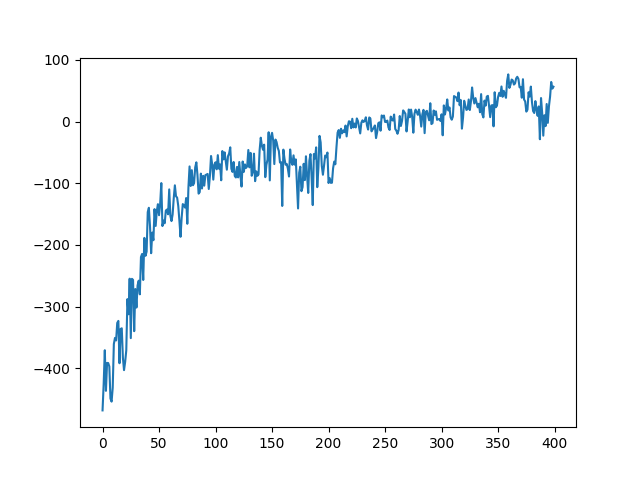
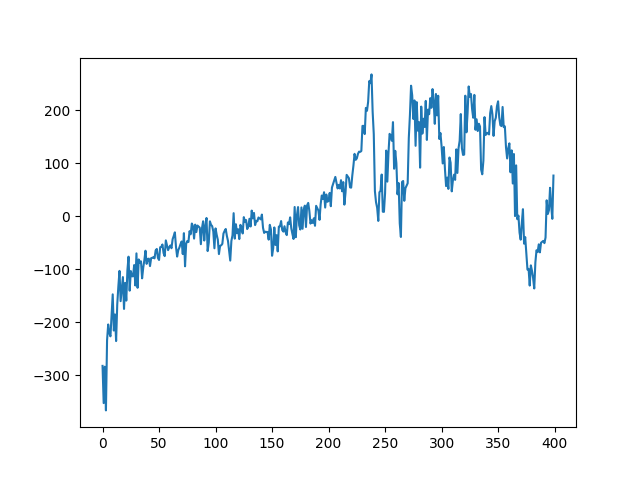
my SPGD seems to work now

diff --git a/PGO/algorithms/my_SPGD_reinforce.py b/PGO/algorithms/my_SPGD_reinforce.py
@@ -36,7 +36,9 @@ class Reinforce():
 				self.reward_buffer.append([])
 
 				state = self.env.reset()[0]
+				state[5] *= 2.5
 				state = torch.tensor(state)
+
 				
 				truncated = False
 				terminated = False
@@ -58,6 +60,8 @@ class Reinforce():
 					self.state_buffer[traj].append(state)
 					self.action_buffer[traj].append(action)
 					self.reward_buffer[traj].append(reward)
+
+					new_state[5] *= 2.5
 
 					state = torch.tensor(new_state)
 				
@@ -121,6 +125,7 @@ class Reinforce():
 			truncated = False
 			terminated = False
 			state = env.reset()[0]
+			state[5] *= 2.5
 			state = torch.Tensor(state)
 			while not (truncated or terminated):
 				means, stds = self.policy_network(state.unsqueeze(0))
@@ -133,6 +138,8 @@ class Reinforce():
 				action = distr.sample()	# returns a tensor
 
 				new_state, reward, terminated, truncated, _ = env.step(action.numpy())	# tensor => numpy array
+
+				new_state[5] *= 2.5
 
 				state = torch.tensor(new_state)
 						

diff --git a/PGO/algorithms/networks/lunar_network.py b/PGO/algorithms/networks/lunar_network.py
@@ -12,9 +12,6 @@ class PolicyNetwork(torch.nn.Module):
         self.scale_factor = torch.tensor([1.5, 2], requires_grad=False)
         self.bias_factor = torch.tensor([-0.5, -1], requires_grad=False)
 
-        self.my_scale_factor = torch.tensor([1, 2], requires_grad=False)
-        self.my_bias_factor = torch.tensor([0, -1], requires_grad=False)
-
     def forward(self, x):
         x = F.relu(self.layer1(x))      # => [0,x]
         x = F.relu(self.layer2(x))      # => [0,x]
@@ -22,9 +19,8 @@ class PolicyNetwork(torch.nn.Module):
         
         # [main_engine_mean, lateral_engine_mean, main_engine_std, lateral_engine_std]
         #   [-0.5, 1]           [-1, 1]
-        #   [0.5, 1]
 
-        return x[:, :self.n_actions] * self.my_scale_factor + self.my_bias_factor, x[:, self.n_actions:] + 0.01
+        return x[:, :self.n_actions] * self.scale_factor + self.bias_factor, x[:, self.n_actions:] + 0.01
     
     
 

diff --git a/PGO/algorithms/FIASCHI_reinforce_SPGD.py b/PGO/algorithms/FIASCHI_reinforce_SPGD.py
@@ -29,7 +29,9 @@ class Policy_Network(nn.Module):
 	def forward(self, x):
 		x = F.relu(self.layer1(x))
 		x = F.relu(self.layer2(x))
-		x = F.sigmoid(self.layer3(x))
+		x = F.sigmoid(self.layer3(x))	# [0,1] => [0, 1.5] => [-0.5, 1]
+
+
 		return x[:, :self.out_size] * self.scale_factor + self.bias_factor, x[:, self.out_size:] + 0.01
 		
 	def __str__(self):
